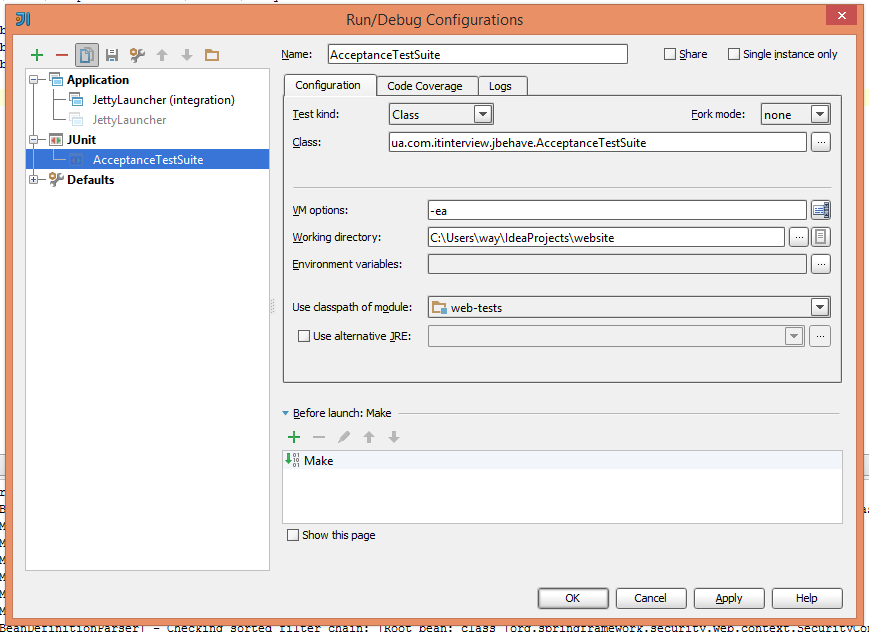
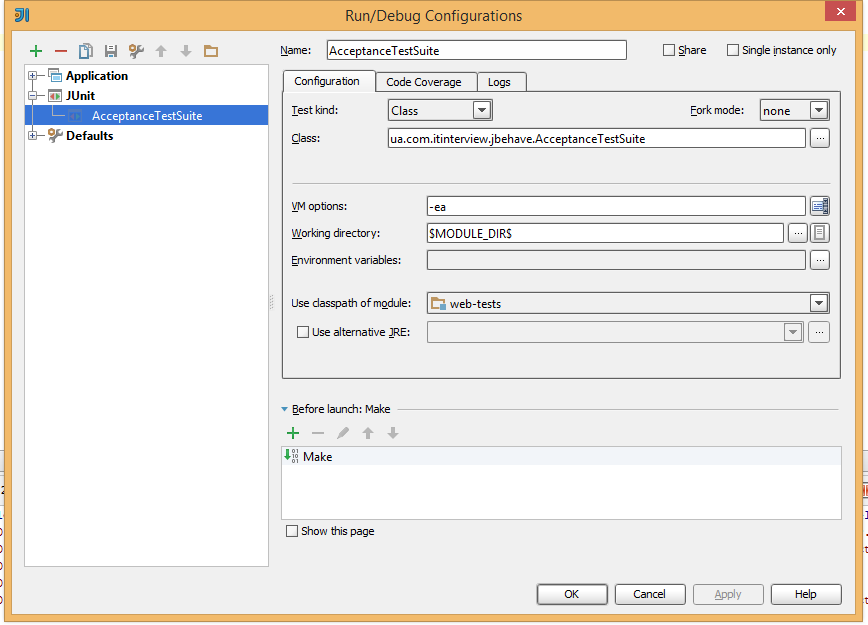
replaced absolute urls for page objects with relative

Changed region(s): [[0.0, 0.0, 1.0, 1.0]]

diff --git a/web-tests/src/test/java/ua/com/itinterview/pages/SignUpPage.java b/web-tests/src/test/java/ua/com/itinterview/pages/SignUpPage.java
@@ -6,11 +6,10 @@ import net.thucydides.core.pages.PageObject;
 import org.openqa.selenium.WebDriver;
 import org.openqa.selenium.WebElement;
 import org.openqa.selenium.support.FindBy;
-import ua.com.itinterview.jbehave.AcceptanceTestSuite;
 
 import java.util.List;
 
-@DefaultUrl(AcceptanceTestSuite.ROOT_URL + "register")
+@DefaultUrl("/register")
 public class SignUpPage extends PageObject {
 
     @FindBy(css = ".reg_data>input[type=\"submit\"]")

diff --git a/web-tests/src/test/java/ua/com/itinterview/jbehave/AcceptanceTestSuite.java b/web-tests/src/test/java/ua/com/itinterview/jbehave/AcceptanceTestSuite.java
@@ -2,9 +2,6 @@ package ua.com.itinterview.jbehave;
 
 import net.thucydides.jbehave.ThucydidesJUnitStories;
 
-public class AcceptanceTestSuite extends ThucydidesJUnitStories
-{
-    public static final int PORT = 8090;
-    public static final String CONTEXT = "/it-interview";
-    public static final String ROOT_URL = "http://localhost:" + PORT + CONTEXT + "/";
+public class AcceptanceTestSuite extends ThucydidesJUnitStories {
+
 }

diff --git a/web-tests/src/test/java/ua/com/itinterview/pages/DbCleanerPage.java b/web-tests/src/test/java/ua/com/itinterview/pages/DbCleanerPage.java
@@ -3,9 +3,8 @@ package ua.com.itinterview.pages;
 import net.thucydides.core.annotations.DefaultUrl;
 import net.thucydides.core.pages.PageObject;
 import org.openqa.selenium.WebDriver;
-import ua.com.itinterview.jbehave.AcceptanceTestSuite;
 
-@DefaultUrl(AcceptanceTestSuite.ROOT_URL + "dev/cleanDb")
+@DefaultUrl("/dev/cleanDb")
 public class DbCleanerPage extends PageObject {
 
 
